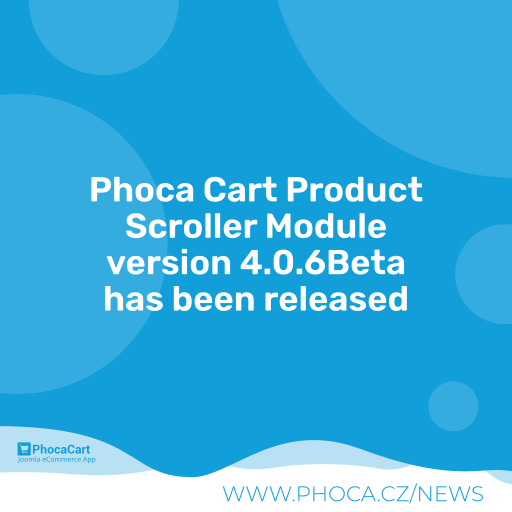
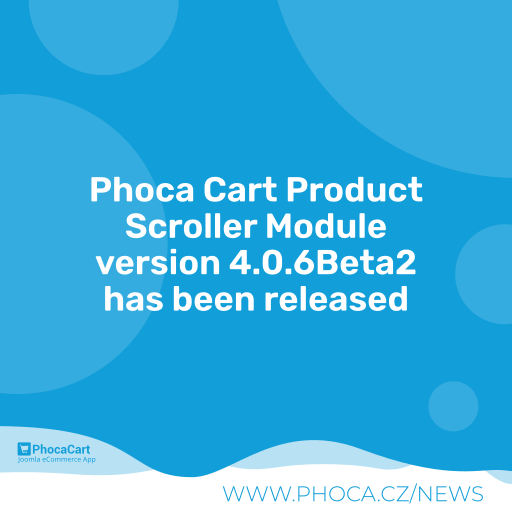
4.0.6Beta2

Changed region(s): [[0.1875, 0.4688, 0.8125, 0.5625]]

diff --git a/mod_phocacart_product_scroller.php b/mod_phocacart_product_scroller.php
@@ -7,10 +7,16 @@
  * @license http://www.gnu.org/copyleft/gpl.html GNU/GPL
  */
 
+use Joomla\CMS\Factory;
+use Joomla\CMS\Helper\ModuleHelper;
+
 defined('_JEXEC') or die;// no direct access
 
+
+$app = Factory::getApplication();
+
 if (!JComponentHelper::isEnabled('com_phocacart', true)) {
-	$app = JFactory::getApplication();
+
 	$app->enqueueMessage(JText::_('Phoca Cart Error'), JText::_('Phoca Cart is not installed on your system'), 'error');
 	return;
 }
@@ -18,16 +24,18 @@ if (!JComponentHelper::isEnabled('com_phocacart', true)) {
 JLoader::registerPrefix('Phocacart', JPATH_ADMINISTRATOR . '/components/com_phocacart/libraries/phocacart');
 
 
-$lang = JFactory::getLanguage();
+$lang = Factory::getLanguage();
 //$lang->load('com_phocacart.sys');
 $lang->load('com_phocacart');
 
-$document = JFactory::getDocument();
+$document = Factory::getDocument();
 $media = PhocacartRenderMedia::getInstance('main');
 $media->loadBase();
 $media->loadBootstrap();
 $media->loadSpec();
 $s = PhocacartRenderStyle::getStyles();
+
+$wa                         = $document->getWebAssetManager();
 
 
 $p['item_ordering']					= $params->get( 'item_ordering', 1 );
@@ -159,12 +167,13 @@ if ((int)$p['display_navigation'] > 0) {
 $sa[] = '})';
 $sa[] = ' ';
 
-$document->addScriptDeclaration(implode("\n", $sa));
+//$document->addScriptDeclaration(implode("\n", $sa));
+$wa->addInlineScript(implode("\n", $sa), ['version' => 'auto'], ['type' => 'module']);//, ['defer' => true]
 
 // TO DO - the following function can check publish, stock, price - this can be added to the parameters
 $products			= PhocacartProduct::getProducts(0, $p['item_limit'], $p['item_ordering'], 0, true, false, false, 0, $p['catid_multiple'], $p['featured_only'], array(0,1), '', '', true);
 $t['pathitem'] 		= PhocacartPath::getPath('productimage');
 
 
-require(JModuleHelper::getLayoutPath('mod_phocacart_product_scroller', $params->get('layout', 'default')));
+require(ModuleHelper::getLayoutPath('mod_phocacart_product_scroller', $params->get('layout', 'default')));
 ?>

diff --git a/README.MD b/README.MD
@@ -60,7 +60,7 @@ Phoca Cart Product Scroller Module - a Joomla! CMS module which displays product
 
 ## Version (Joomla! 4.x)
 
-4.0.6Beta
+4.0.6Beta2
 
 
 
